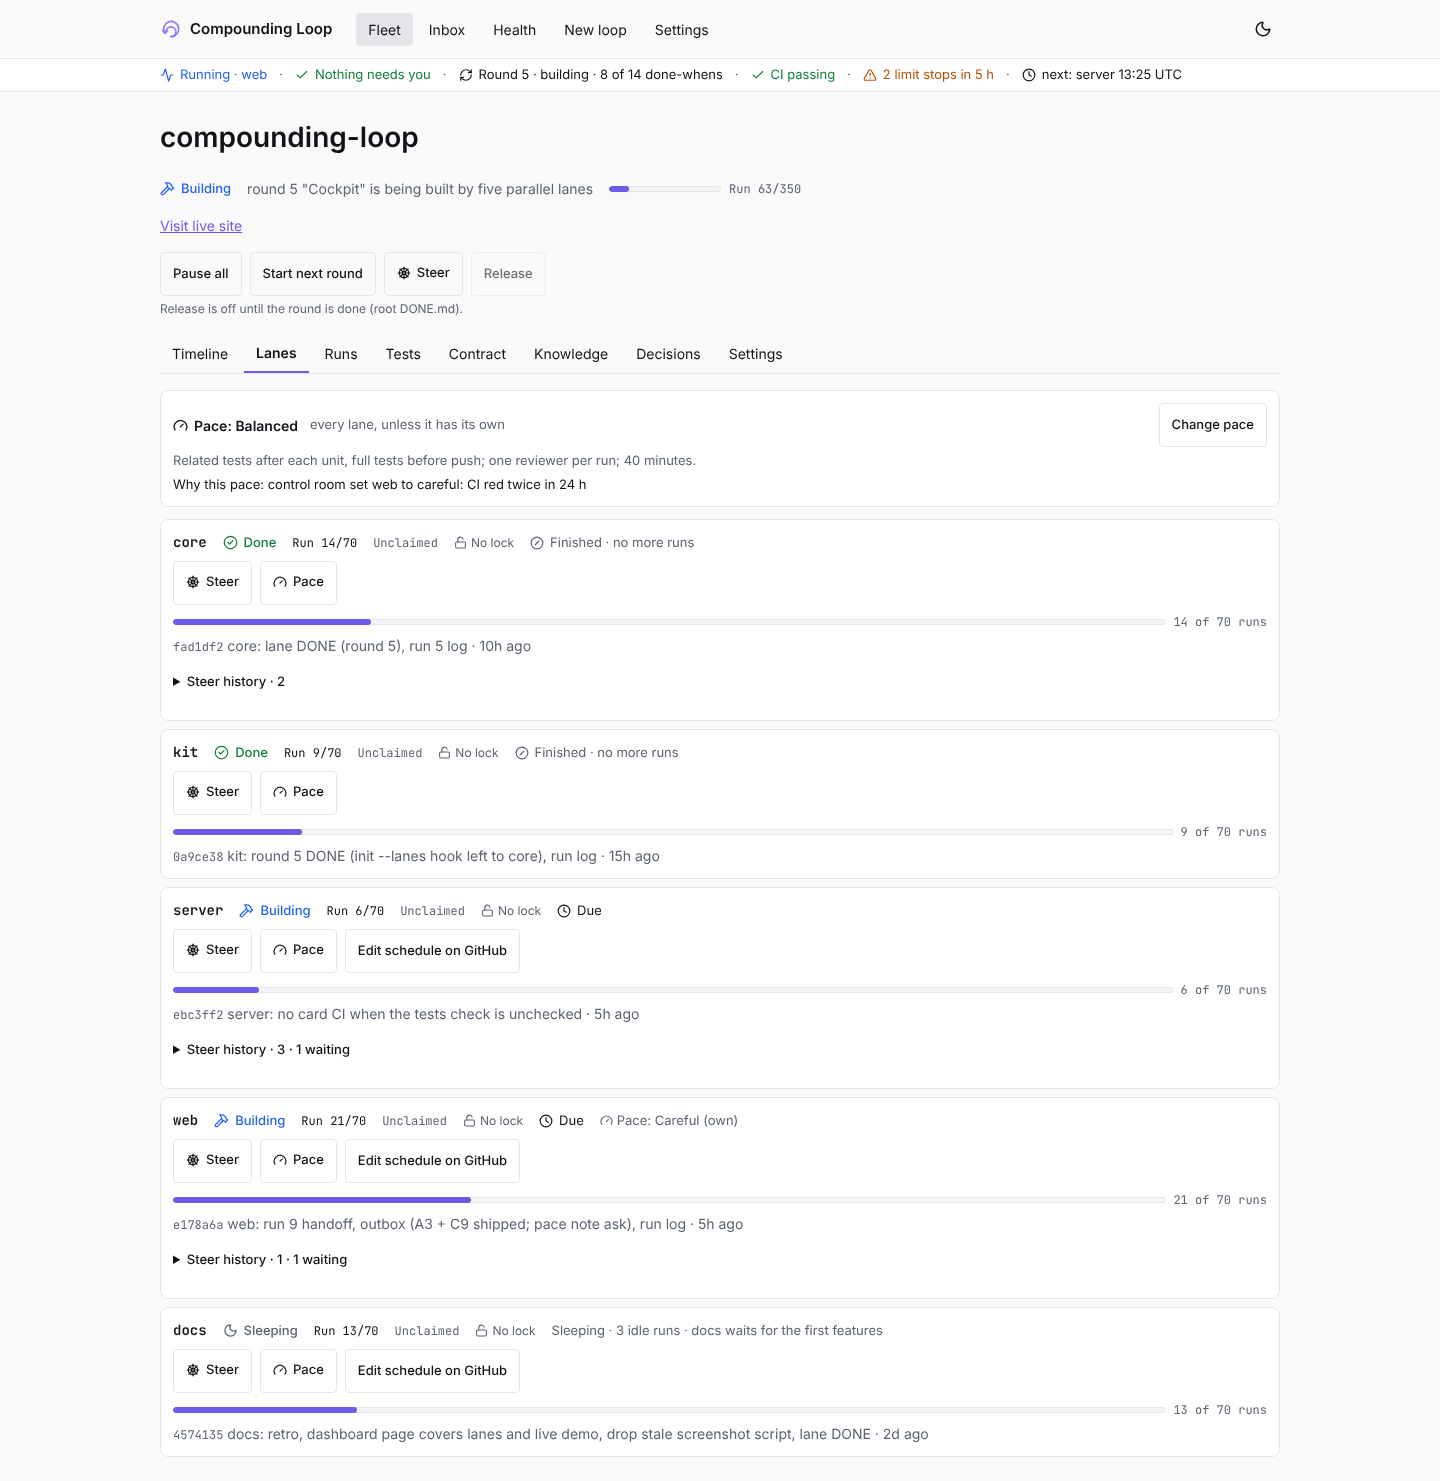
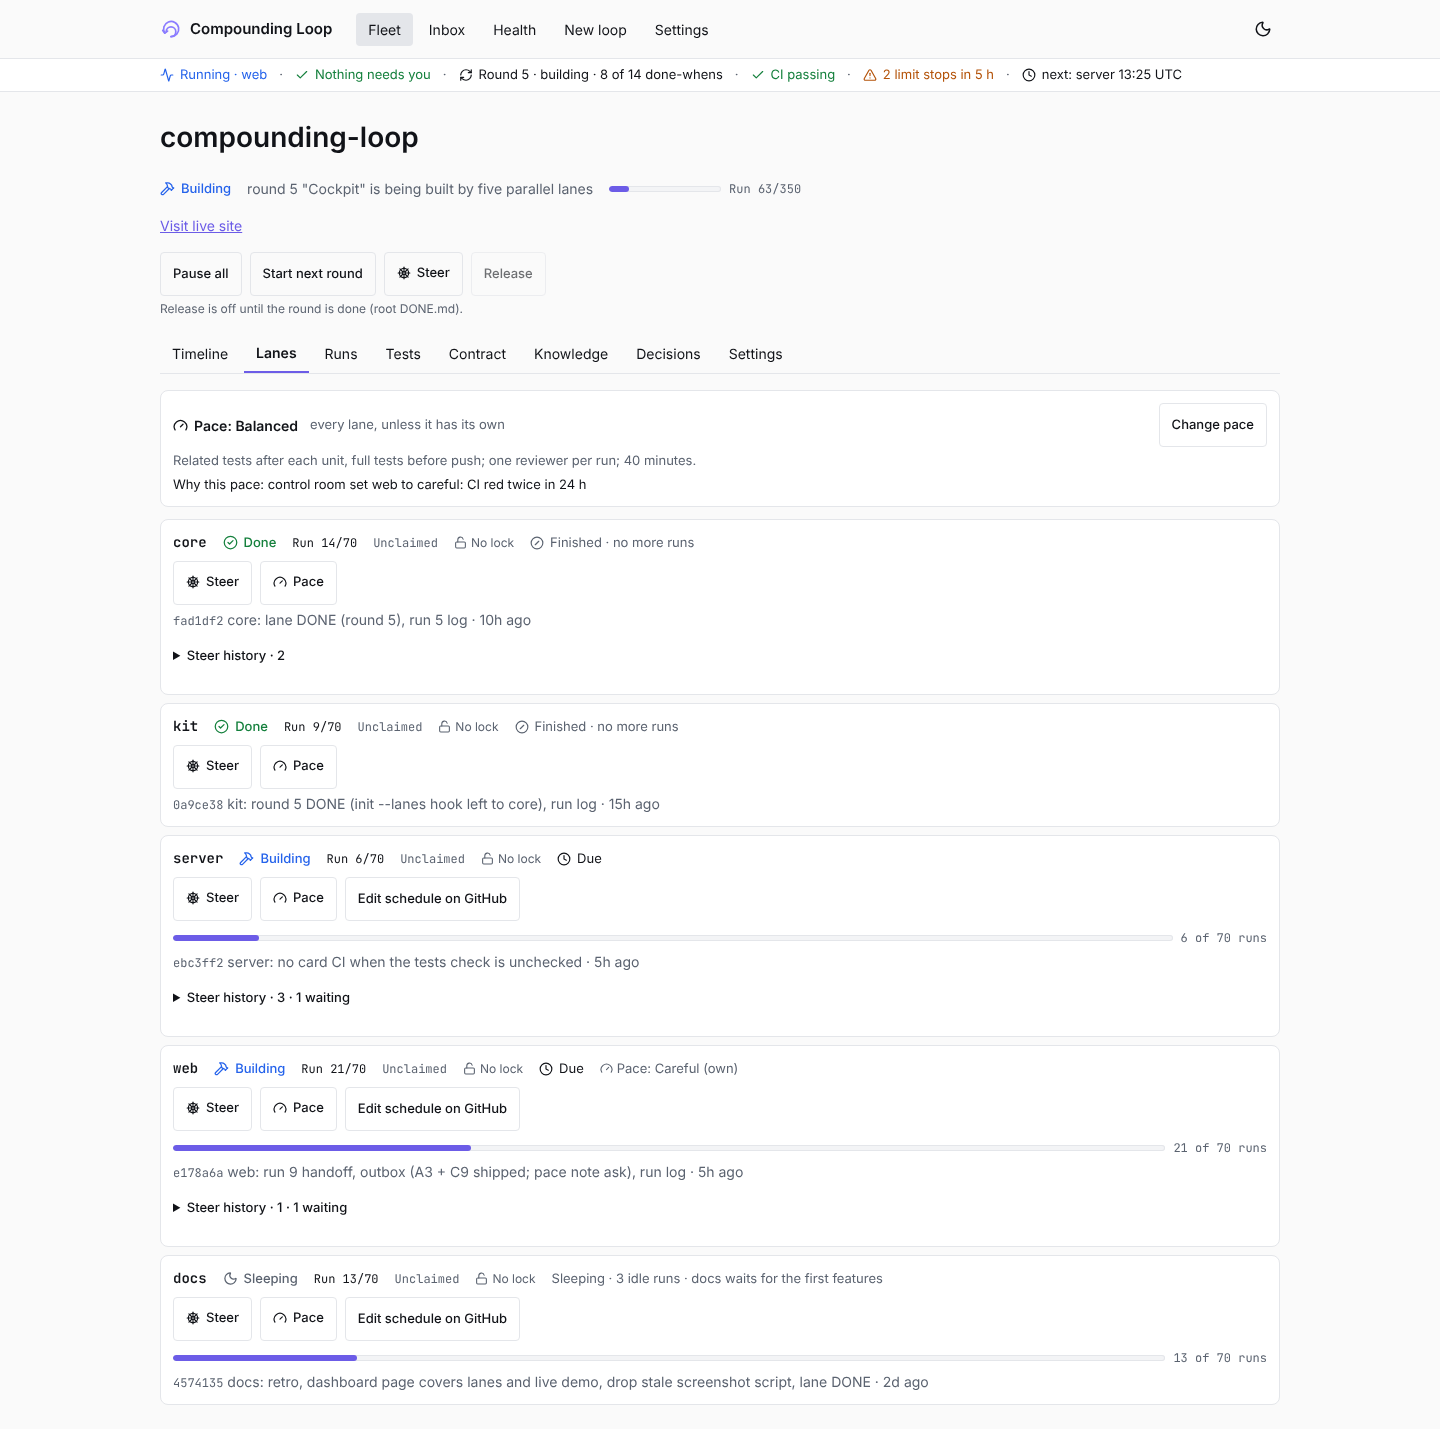
web: a done lane keeps its run counter but shows no run-budget bar
Lane: web

Claude-Session: https://claude.ai/code/session_0135eEZbXzaftKM6SoTFzsNQ

diff --git a/web/src/components/LanesTab.tsx b/web/src/components/LanesTab.tsx
@@ -98,7 +98,8 @@ function LaneRow({ lane, cockpit }: { lane: LaneStatus; cockpit: LanesCockpit })
         {schedule && cockpit.loopId && <ScheduleControls loopId={cockpit.loopId} lane={lane.name} kind={schedule.kind} {...(cockpit.slug && { slug: cockpit.slug })} now={cockpit.now ?? new Date()} />}
         {pacing && cockpit.pace && cockpit.loopId && <PaceChooser loopId={cockpit.loopId} pace={cockpit.pace} lane={lane.name} {...(cockpit.slug && { slug: cockpit.slug })} onClose={() => { setPacing(false); window.setTimeout(() => paceButton.current?.focus(), 0); }} />}
       </div>
-      {lane.limit > 0 && <div className="mt-2"><ProgressBar label={`${lane.name} run budget`} value={Math.min(lane.run, lane.limit)} max={lane.limit} text={`${lane.run} of ${lane.limit} runs`} color="var(--accent)" /></div>}
+      {/* A done lane spends no more runs: its budget bar would only read as unfinished work (the header keeps "Run N/limit"). */}
+      {lane.limit > 0 && lane.state !== 'done' && <div className="mt-2"><ProgressBar label={`${lane.name} run budget`} value={Math.min(lane.run, lane.limit)} max={lane.limit} text={`${lane.run} of ${lane.limit} runs`} color="var(--accent)" /></div>}
       <p className="mt-1 [overflow-wrap:anywhere]" style={{ color: 'var(--muted)' }}>
         {lane.lastCommit
           ? <><code className="font-mono text-[12px]">{lane.lastCommit.sha.slice(0, 7)}</code> {lane.lastCommit.subject} · {relativeTime(lane.lastCommit.at)}</>

diff --git a/tests/e2e/lanes.spec.ts b/tests/e2e/lanes.spec.ts
@@ -51,6 +51,9 @@ test('loop detail has a Lanes tab with a row per lane, run counters, lock and un
   await expect(rows.nth(1).getByTestId('lane-claim')).toHaveText('Unclaimed');
   await expect(rows.nth(1).getByRole('progressbar')).toHaveAttribute('aria-valuenow', '7');
   await expect(rows.nth(1)).toContainText('Locked');
+  // A done lane keeps its run counter but shows no budget bar.
+  await expect(rows.nth(0)).toContainText('Run 7/30');
+  await expect(rows.nth(0).getByRole('progressbar')).toHaveCount(0);
   await expect(rows.nth(2)).toContainText('Stalled');
   await expect(rows.nth(2)).toContainText('web → server: need the lanes route');
   const { violations } = await new AxeBuilder({ page }).withTags(['wcag2a', 'wcag2aa', 'wcag21aa']).analyze();
